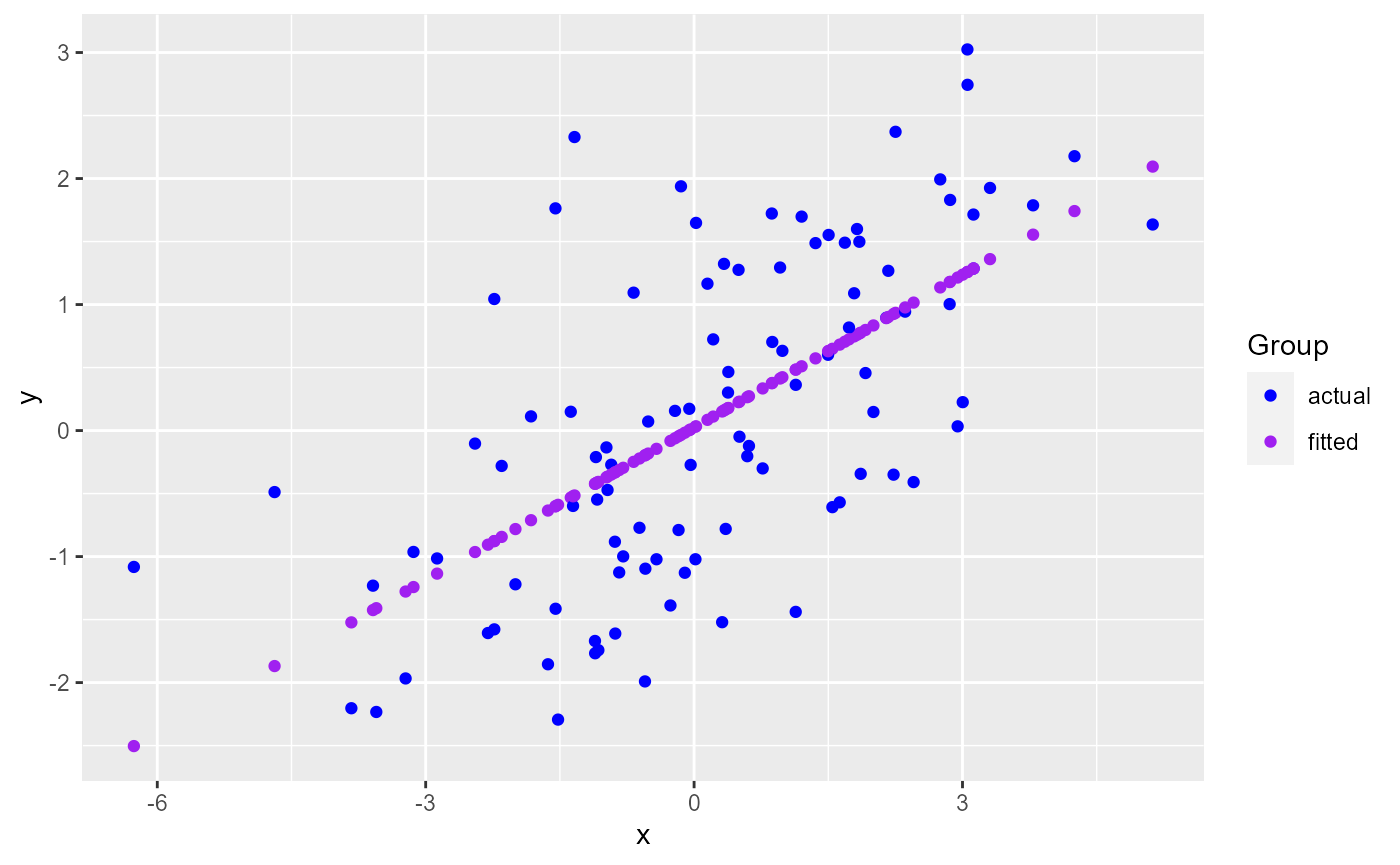
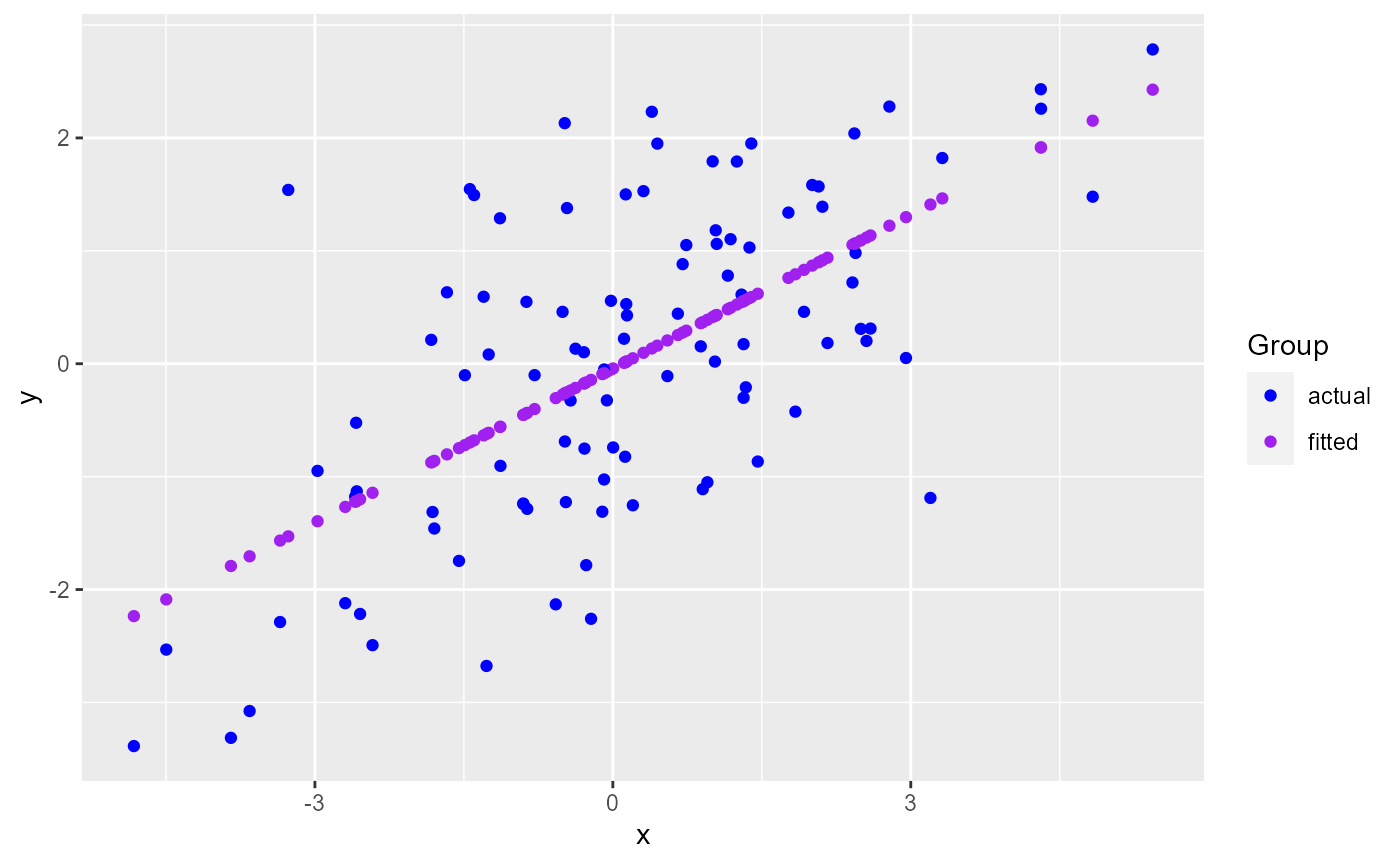
Documented ggmatplot function return value

diff --git a/docs/articles/ggmatplot.html b/docs/articles/ggmatplot.html
@@ -101,7 +101,7 @@
 <span class="va">x</span> <span class="op">&lt;-</span> <span class="fu"><a href="https://rdrr.io/r/base/c.html">c</a></span><span class="op">(</span><span class="fu"><a href="https://rdrr.io/r/stats/Normal.html">rnorm</a></span><span class="op">(</span><span class="fl">100</span>, sd <span class="op">=</span> <span class="fl">2</span><span class="op">)</span><span class="op">)</span>
 
 <span class="fu"><a href="https://rdrr.io/r/utils/head.html">head</a></span><span class="op">(</span><span class="va">x</span><span class="op">)</span>
-<span class="co">#&gt; [1]  1.6850288  2.2297494 -0.5446094 -0.1736304 -2.1506966 -3.2245466</span>
+<span class="co">#&gt; [1] -0.48424992  2.95195840  0.73963283 -0.47298347 -0.06000824  0.44809042</span>
 
 <span class="co"># matrix z</span>
 <span class="va">y</span> <span class="op">&lt;-</span> <span class="va">x</span> <span class="op">*</span> <span class="fl">0.5</span> <span class="op">+</span> <span class="fu"><a href="https://rdrr.io/r/stats/Normal.html">rnorm</a></span><span class="op">(</span><span class="fl">100</span>, sd <span class="op">=</span> <span class="fl">1</span><span class="op">)</span>
@@ -110,13 +110,13 @@
            fitted <span class="op">=</span> <span class="va">fit.y</span><span class="op">)</span>
 
 <span class="fu"><a href="https://rdrr.io/r/utils/head.html">head</a></span><span class="op">(</span><span class="va">z</span><span class="op">)</span>
-<span class="co">#&gt;       actual      fitted</span>
-<span class="co">#&gt; 1  1.4908444  0.70520103</span>
-<span class="co">#&gt; 2 -0.3499032  0.92517032</span>
-<span class="co">#&gt; 3 -1.0960407 -0.19517240</span>
-<span class="co">#&gt; 4 -0.7892177 -0.04536348</span>
-<span class="co">#&gt; 5 -0.2806253 -0.84374317</span>
-<span class="co">#&gt; 6 -1.9671201 -1.27738571</span></code></pre></div>
+<span class="co">#&gt;        actual      fitted</span>
+<span class="co">#&gt; 1  2.13092904 -0.26345053</span>
+<span class="co">#&gt; 2  0.05075903  1.29839732</span>
+<span class="co">#&gt; 3  1.05136545  0.29283665</span>
+<span class="co">#&gt; 4 -1.22559356 -0.25832963</span>
+<span class="co">#&gt; 5 -0.32456640 -0.07062143</span>
+<span class="co">#&gt; 6  1.94966738  0.16032289</span></code></pre></div>
 <p><code>ggmatplot</code> plots vector <code>x</code> against each column of matrix <code>z</code> using the default <code>plot_type = "point"</code>. This will be represented on the resulting plot as two groups, identified using different shapes and colors.</p>
 <div class="sourceCode" id="cb2"><pre class="downlit sourceCode r">
 <code class="sourceCode R"><span class="kw"><a href="https://rdrr.io/r/base/library.html">library</a></span><span class="op">(</span><span class="va"><a href="https://github.com/xuan-liang/ggmatplot">ggmatplot</a></span><span class="op">)</span>

diff --git a/docs/reference/ggmatplot.html b/docs/reference/ggmatplot.html
@@ -235,6 +235,10 @@ those that can be passed on to the <a href='#plot-types'>underlying ggplot layer
     </tr>
     </table>
 
+    <h2 class="hasAnchor" id="value"><a class="anchor" href="#value"></a>Value</h2>
+
+    <p>A ggplot object. The columns of the input matrices will be plotted
+against each other using the defined plot type.</p>
     <h2 class="hasAnchor" id="plot-types"><a class="anchor" href="#plot-types"></a>Plot Types</h2>
 
     
